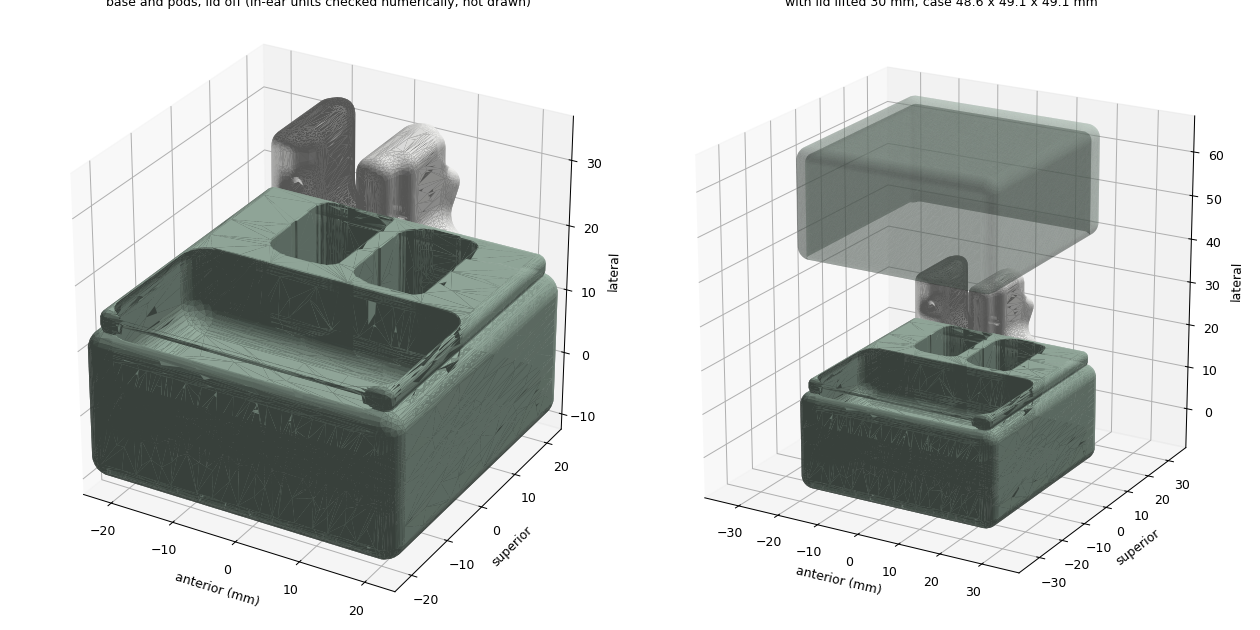
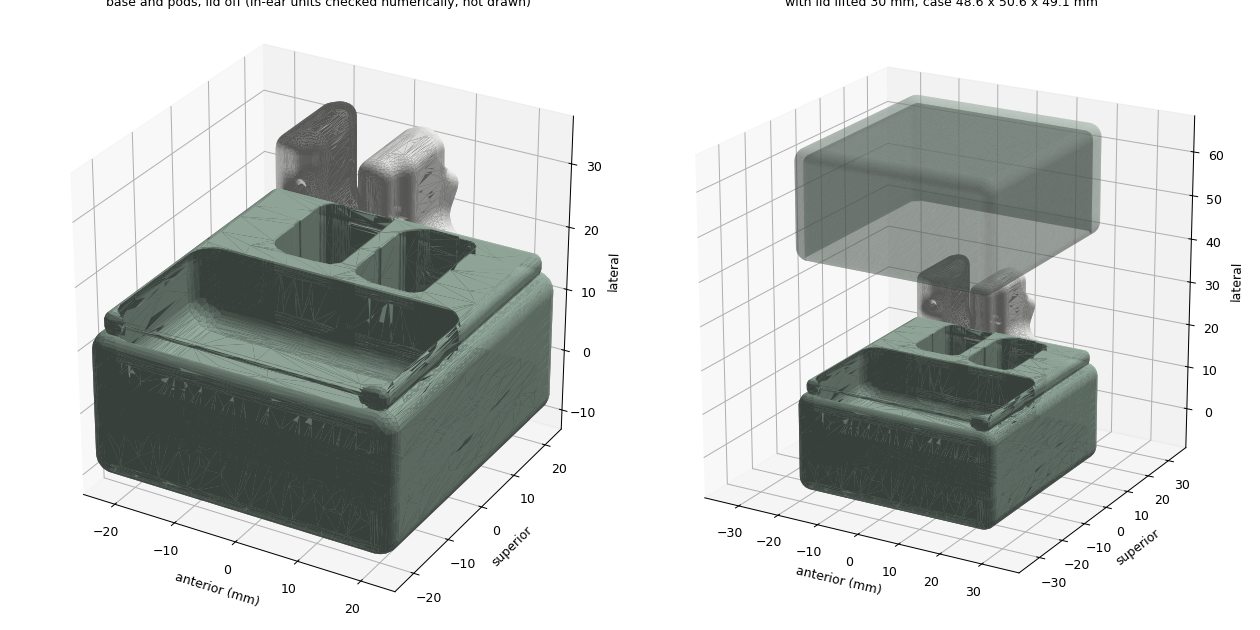
Case: deeper pocket for the battery and pin margins, USB-C at x=-2, LED light hole

diff --git a/mechanical_cad/v2_bte/case.py b/mechanical_cad/v2_bte/case.py
@@ -32,7 +32,7 @@ BAY_H = 8.0           # board 0.8 + pogo body + battery 6.0 + slack
 PLATE = 1.4
 WELL_DEPTH = 14.0     # how far up the pod the well grips
 POD_GAP = 3.0         # wall between the two wells
-TRAY = (44.0, 24.0, 12.0)   # in-ear pocket: across, front-back, depth
+TRAY = (44.0, 25.5, 12.0)   # in-ear pocket: across, front-back, depth
 LID_CLEAR = 3.0       # above the pod tops
 LIP = 3.0             # height of the lid's overlap on the base
 LID_T = 1.6
@@ -41,6 +41,9 @@ POD_MAG = (3.0, 2.0)  # matches the pod's magnet
 POGO_PITCH = 5.0
 POGO_HOLE = 1.6
 USB_C = (9.2, 3.4)    # receptacle opening, w x h
+USB_X = -2.0          # matches J1 on the case board (gen_v2_case_pcb.py)
+LED_X = -8.8          # charge LED D2 at the board's back edge
+LED_HOLE = 1.5
 
 
 def pod_in_case(mirror):
@@ -156,8 +159,12 @@ def main():
             pins.append(contacts[side][k])
         base = np.maximum(base, -cyl_z(G, mc, POD_MAG[0] / 2 + 0.1, -FLOOR - 1, -FLOOR + POD_MAG[1] + 0.1))
     # USB-C opening in the back wall, at bay height
-    usb_z = -FLOOR - BAY_H + 0.8 + USB_C[1] / 2 + 0.2
-    base = np.maximum(base, -rbox(G, [0, outer[1] / 2, usb_z], [USB_C[0], 2 * WALL + 2, USB_C[1]], 1.2))
+    usb_z = z_bot + PLATE + 1.0 + 1.6           # board (1.0 mm) on the plate; receptacle centre 1.6 above its top
+    base = np.maximum(base, -rbox(G, [USB_X, outer[1] / 2, usb_z], [USB_C[0], 2 * WALL + 2, USB_C[1]], 1.2))
+    # light hole for the charge LED (0603 on the board top, at the back edge)
+    led_z = z_bot + PLATE + 1.0 + 0.3
+    d = np.hypot(G[..., 0] - LED_X, G[..., 2] - led_z) - LED_HOLE / 2
+    base = np.maximum(base, -np.maximum(d, np.abs(G[..., 1] - outer[1] / 2) - (WALL + 1.0)))
     # ---- lid: cap from base_top - LIP up to lid_top
     lid_h = lid_top - (base_top - LIP)
     lid = rbox(G, [0, 0, base_top - LIP + lid_h / 2], [outer[0], outer[1], lid_h], 3.0)
@@ -190,7 +197,7 @@ def main():
     for n in ("Edge.Cuts", "POGO", "POD_MAGNET", "USB_C", "BATTERY", "NOTES"):
         doc.layers.add(n)
     msp = doc.modelspace()
-    bw, bl = inner_x - 1.0, 14.0                                   # strip under the pods, back of the bay
+    bw, bl = inner_x - 1.0, 15.5                                   # strip under the pods, back of the bay
     by = inner_y / 2 - bl / 2 - 0.5
     pts = [(-bw / 2, by - bl / 2), (bw / 2, by - bl / 2), (bw / 2, by + bl / 2), (-bw / 2, by + bl / 2), (-bw / 2, by - bl / 2)]
     msp.add_lwpolyline(pts, dxfattribs=dict(layer="Edge.Cuts"))
@@ -205,6 +212,10 @@ def main():
     # 603040 cell turned sideways: 40 mm across, 30 mm front-back, in front of the board strip
     b0 = -inner_y / 2 + 0.3
     assert b0 + 30.0 <= by - bl / 2 - 0.3, "battery does not fit in front of the board"
+    for side in ("L", "R"):                                   # every spring pin >= 2 mm inside the board
+        for k in ("vbus", "gnd"):
+            yk = contacts[side][k][1]
+            assert by - bl / 2 + 2.0 <= yk <= by + bl / 2 - 2.0, (side, k, yk)
     msp.add_lwpolyline([(-20, b0), (20, b0), (20, b0 + 30), (-20, b0 + 30), (-20, b0)], dxfattribs=dict(layer="BATTERY"))
     notes = ["Haven v2 case board, case frame (X across, Y back = +), board under the floor at the back of the bay.",
              "Spring pins on the TOP face at POGO circles, pointing up through the floor; pod magnets sit in the floor",
@@ -216,7 +227,7 @@ def main():
 
     out.update(outer_mm=[round(float(outer[0]), 1), round(float(outer[1]), 1), round(float(lid_top - z_bot), 1)],
                board_mm=[round(bw, 1), bl], board_center_y=round(by, 2), floor_top_z=0.0, bay=[inner_x, inner_y, BAY_H],
-               contacts=contacts, usb_c_center_z=round(usb_z, 2),
+               contacts=contacts, usb_c_center=[USB_X, round(usb_z, 2)], led_hole=[LED_X, round(led_z, 2)], board_top_z=round(z_bot + PLATE + 1.0, 2),
                pod_top_z=round(float(pod_top), 2), base_top_z=base_top,
                tray_center_y=round(float(ty), 2), tray_floor_z=round(base_top - TRAY[2], 2), lid_inner_top_z=round(lid_top - LID_T, 2))
     json.dump(out, open(os.path.join(HERE, "case.json"), "w"), indent=1)

diff --git a/mechanical_cad/v2_bte/README.md b/mechanical_cad/v2_bte/README.md
@@ -89,7 +89,7 @@ doi:10.14279/depositonce-8487.
 `case.py` → `case_base.stl`, `case_lid.stl`, `case_plate.stl`, `board_case_outline.dxf`, `case.json`;
 `render_case.py` → `preview_case.png`. Schematic: haven-dev-board-kicad `kicad_v2_case/`.
 
-- **48.6 × 49.1 × 49.1 mm** closed. Base, lid (friction fit over a 3 mm lip, 0.15 mm per side) and
+- **48.6 × 50.6 × 49.1 mm** closed. Base, lid (friction fit over a 3 mm lip, 0.15 mm per side) and
   a 1.4 mm bottom plate. All three meshes are watertight.
 - **Pod wells:** each pod stands upright, and its well is the pod's own lower envelope dropped
   straight down plus 0.35 mm, 14 mm deep. The pod rests on its lowest point, which is its charge
@@ -100,11 +100,14 @@ doi:10.14279/depositonce-8487.
   **Pod contact pins should be lengthened to 3.5 mm (Ø1.5 brass) so they sit flush with the pod
   shell.** As modelled they are 1.2 mm, recessed 2.3 mm inside the shell, which a short spring
   pin can't reach.
-- **In-ear pocket** at the front, 44 × 24 × 12 mm: both in-ear units stand nozzle-up with tips on
+- **In-ear pocket** at the front, 44 × 25.5 × 12 mm: both in-ear units stand nozzle-up with tips on
   and clear the base by ~0.3 mm (checked with signed distance, not shown in the render). Their
   tops are at 22.6 mm; the lid's inside is at 36.6 mm, which leaves room for the cable loops.
-- **Electronics bay** under the floor, 8 mm tall: the case board is a 44 × 14 mm strip at the back,
-  under the pods, with spring pins on its top face and USB-C on its back edge (opening in the
-  back wall). The 603040 LiPo (6 × 30 × 40 mm) lies sideways in front of it.
+- **Electronics bay** under the floor, 8 mm tall: the case board (1.0 mm) lies on the bottom plate as
+  a 44 × 15.5 mm strip at the back, under the pods. USB-C sits on its back edge, at x = −2 mm in the
+  back-wall opening; the charge LED shines through a Ø1.5 mm hole in the back wall. The 603040 LiPo
+  (6 × 30 × 40 mm) lies sideways in front of it.
+- **Spring pins:** the board's top face is 9.3 mm below the pod contacts (with flush contacts), so
+  use SMD pogo pins about **9.8 mm tall with ≥ 1 mm travel**, plunger ≤ Ø1.2 mm.
 - Not done: the lid has no magnets or hinge yet (friction fit only), there are no cable-loop
-  guides, and the case board isn't laid out.
+  guides. The case board is laid out (haven-dev-board-kicad `kicad_v2_case/`).
